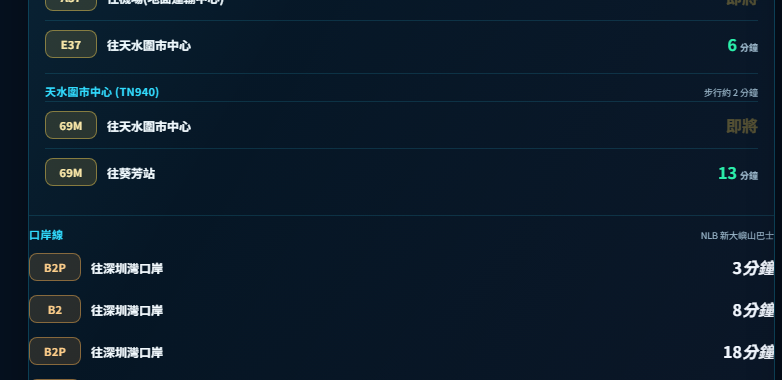
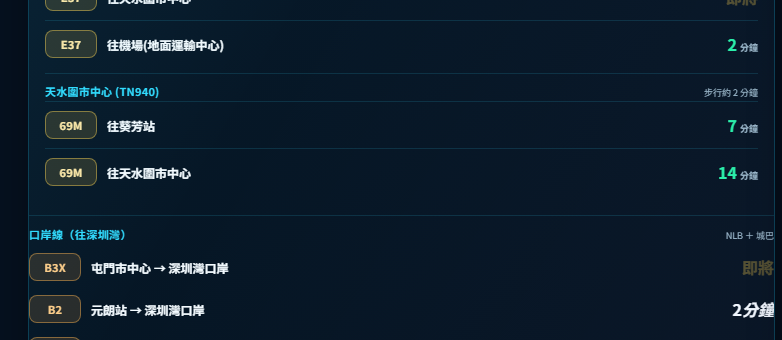
feat(port): 加入城巴 B3/B3A/B3X/B3M，口岸線統一為 NLB＋城巴

diff --git a/src/api/port.ts b/src/api/port.ts
@@ -1,0 +1,86 @@
+import type { PortArrival } from './types';
+import { array, isRecord, record } from '../lib/validate';
+import { getJson, type RequestOptions } from './client';
+
+/**
+ * 口岸線：往深圳灣口岸的巴士。
+ *
+ * - 新大嶼山巴士（NLB）B2／B2P：rt.data.gov.hk/v2/transport/nlb/stop.php?action=estimatedArrivals
+ * - 城巴（CTB）B3 系：rt.data.gov.hk/v2/transport/citybus/eta/CTB/{stop}/{route}
+ *
+ * 城巴回應同時包含兩個方向，必須按 dir 過濾（'O' = outbound，即離開屯門）。
+ * 站號全部於 2026-10-27 以官方 API 核實。
+ */
+
+type PortLine =
+  | { readonly operator: 'NLB'; readonly route: string; readonly from: string; readonly dest: string; readonly routeId: string; readonly stopId: string }
+  | { readonly operator: 'CTB'; readonly route: string; readonly from: string; readonly dest: string; readonly stopId: string };
+
+export const PORT_LINES: readonly PortLine[] = [
+  { operator: 'NLB', route: 'B2', from: '元朗站', dest: '深圳灣口岸', routeId: '37', stopId: '161' },
+  { operator: 'NLB', route: 'B2P', from: '天水圍天慈邨', dest: '深圳灣口岸', routeId: '33', stopId: '203' },
+  { operator: 'CTB', route: 'B3', from: '屯門碼頭', dest: '深圳灣口岸', stopId: '003194' },
+  { operator: 'CTB', route: 'B3A', from: '山景邨', dest: '深圳灣口岸', stopId: '003201' },
+  { operator: 'CTB', route: 'B3X', from: '屯門市中心', dest: '深圳灣口岸', stopId: '003198' },
+  { operator: 'CTB', route: 'B3M', from: '屯門站', dest: '深圳灣口岸', stopId: '003361' },
+];
+
+function minutesFrom(iso: unknown, now: Date): number | null {
+  if (typeof iso !== 'string' || iso.length === 0) return null;
+  const at = new Date(iso);
+  if (Number.isNaN(at.getTime())) return null;
+  const minutes = Math.round((at.getTime() - now.getTime()) / 60_000);
+  return minutes < 0 || minutes > 180 ? null : minutes;
+}
+
+function parseNlb(payload: unknown, line: PortLine, now: Date): PortArrival[] {
+  const root = record(payload, 'NLB 回應');
+  const list = array(root['arrivals'], 'NLB.arrivals');
+  const out: PortArrival[] = [];
+  for (const entry of list) {
+    if (!isRecord(entry)) continue;
+    const time = entry['estimatedArrivalTime'];
+    const at = typeof time === 'string' ? new Date(`${time.replace(' ', 'T')}+08:00`) : null;
+    const minutes = at && !Number.isNaN(at.getTime()) ? Math.round((at.getTime() - now.getTime()) / 60_000) : null;
+    if (minutes === null || minutes < 0 || minutes > 180) continue;
+    out.push({ operator: line.operator, route: line.route, from: line.from, dest: line.dest, minutes });
+    if (out.length >= 1) break;
+  }
+  return out;
+}
+
+function parseCtb(payload: unknown, line: PortLine, now: Date): PortArrival[] {
+  const root = record(payload, '城巴回應');
+  const list = array(root['arrivals'], 'CTB.arrivals');
+  const out: PortArrival[] = [];
+  for (const entry of list) {
+    if (!isRecord(entry)) continue;
+    // 只取離屯門方向（dir 'O'），否則會混入返屯門嘅班次。
+    if (entry['dir'] !== 'O') continue;
+    const minutes = minutesFrom(entry['eta'], now);
+    if (minutes === null) continue;
+    out.push({ operator: line.operator, route: line.route, from: line.from, dest: line.dest, minutes });
+    if (out.length >= 1) break;
+  }
+  return out;
+}
+
+export async function fetchPortArrivals(now: Date, options: RequestOptions): Promise<readonly PortArrival[]> {
+  const results = await Promise.allSettled(
+    PORT_LINES.map((line) => {
+      if (line.operator === 'NLB') {
+        return getJson('/api/nlb', { route: line.routeId, stop: line.stopId }, (raw) => parseNlb(raw, line, now), options);
+      }
+      return getJson('/api/ctb', { route: line.route, stop: line.stopId }, (raw) => parseCtb(raw, line, now), options);
+    }),
+  );
+
+  const rows: PortArrival[] = [];
+  let failures = 0;
+  for (const result of results) {
+    if (result.status === 'fulfilled') rows.push(...result.value);
+    else failures += 1;
+  }
+  if (rows.length === 0 && failures === PORT_LINES.length) throw new Error('口岸線資料暫時取不到');
+  return rows.sort((a, b) => a.minutes - b.minutes);
+}

diff --git a/src/ui/bus.ts b/src/ui/bus.ts
@@ -1,4 +1,4 @@
-import type { AppState, NlbArrival } from '../api/types';
+import type { AppState, PortArrival } from '../api/types';
 import { loadBusStops } from '../api/bus';
 import { groupByStop } from '../core/bus';
 import { busStopsFor, stationName } from '../core/places';
@@ -75,13 +75,13 @@ export function initBusPicker(handlers: BusHandlers): void {
   on(select, 'change', () => handlers.selectBusStop(select.value));
 }
 
-function nlbRow(row: NlbArrival): HTMLElement {
+function portRow(row: PortArrival): HTMLElement {
   const eta = etaText(row.minutes);
   return h(
     'div',
     { class: 'nlb-row' },
     h('span', { class: 'bus-chip nlb-chip', text: row.route }),
-    h('div', { class: 'bus-info' }, h('b', { text: `往${row.dest}` })),
+    h('div', { class: 'bus-info' }, h('b', { text: `${row.from} → ${row.dest}` })),
     h(
       'strong',
       { class: eta.due ? 'due' : undefined },
@@ -92,25 +92,25 @@ function nlbRow(row: NlbArrival): HTMLElement {
 }
 
 /** 口岸線（B2／B2P）——與九巴分開呈現，因為營運商同資料源都唔同。 */
-export function renderNlb(state: AppState): void {
+export function renderPort(state: AppState): void {
   const block = document.getElementById('nlb-block');
   const list = byId('nlb-list');
   if (!block) return;
 
-  if (!state.nlb.data) {
-    if (state.nlb.state === 'error') {
-      replace(list, h('div', { class: 'state-empty', text: state.nlb.error ?? '口岸線資料暫時取不到' }));
+  if (!state.port.data) {
+    if (state.port.state === 'error') {
+      replace(list, h('div', { class: 'state-empty', text: state.port.error ?? '口岸線資料暫時取不到' }));
     } else {
       replace(list, h('span', { class: 'skeleton', aria: { hidden: 'true' } }));
     }
     return;
   }
 
-  if (state.nlb.data.length === 0) {
+  if (state.port.data.length === 0) {
     replace(list, h('div', { class: 'state-empty', text: '口岸線暫無即將開出班次' }));
     return;
   }
-  replace(list, ...state.nlb.data.map(nlbRow));
+  replace(list, ...state.port.data.map(portRow));
 }
 export function renderBus(state: AppState, now: Date): void {
   setText(byId('bus-badge'), badgeText(state.bus, now));

diff --git a/worker/src/index.js b/worker/src/index.js
@@ -379,6 +379,31 @@ async function handleNlb(url, request, env, ctx) {
     return json({ ok: true, arrivals: data.estimatedArrivals ?? [] }, 200, request, env, TTL.bus);
   });
 }
+/**
+ * 城巴（CTB）到站：屯門／深圳灣口岸的 B3 系列。
+ * 官方端點：rt.data.gov.hk/v2/transport/citybus/eta/CTB/{stop}/{route}
+ */
+async function handleCtb(url, request, env, ctx) {
+  const route = (url.searchParams.get('route') || '').toUpperCase().replace(/[^A-Z0-9]/g, '');
+  const stop = (url.searchParams.get('stop') || '').replace(/\D/g, '');
+  if (!route || !stop) {
+    return json({ ok: false, error: '需要 route 及 stop 參數' }, 400, request, env);
+  }
+  const target = `https://rt.data.gov.hk/v2/transport/citybus/eta/CTB/${stop}/${route}`;
+  const cacheKey = `${url.origin}/api/ctb?route=${route}&stop=${stop}`;
+  return edgeCached(request, cacheKey, TTL.bus, ctx, async () => {
+    const upstream = await fetch(target, { headers: { 'User-Agent': 'hk-traffic-super-screen/2.5' } });
+    if (!upstream.ok) return json({ ok: false, error: `CTB ${upstream.status}` }, 502, request, env);
+    const body = await upstream.text();
+    let data;
+    try {
+      data = JSON.parse(body);
+    } catch {
+      return json({ ok: false, error: '城巴回應格式錯誤' }, 502, request, env);
+    }
+    return json({ ok: true, arrivals: data.data ?? [] }, 200, request, env, TTL.bus);
+  });
+}
 /** 極簡 XML 取值（Worker 冇 DOMParser）。 */
 function pickTag(block, tag) {
   const match = new RegExp(`<${tag}>([\\s\\S]*?)</${tag}>`).exec(block);
@@ -503,6 +528,8 @@ export default {
           return json({ ok: true, now: new Date().toISOString() }, 200, request, env);
         case '/api/rail':
           return await handleRail(url, request, env, ctx);
+        case '/api/ctb':
+          return await handleCtb(url, request, env, ctx);
         case '/api/nlb':
           return await handleNlb(url, request, env, ctx);        case '/api/bus':
           return await handleBus(url, request, env, ctx);

diff --git a/src/main.ts b/src/main.ts
@@ -3,7 +3,7 @@ import './styles/extra.css';
 
 import { errorMessage } from './api/client';
 import { fetchBusArrivals, loadBusStops, type BusStopRef } from './api/bus';
-import { fetchNlbArrivals } from './api/nlb';
+import { fetchPortArrivals } from './api/port';
 import { fetchLrtStations } from './api/lrt';
 import { PartialFailureError, TML_CODES, fetchTmlBatch } from './api/mtr';
 import { fetchTrafficNews } from './api/traffic';
@@ -86,7 +86,7 @@ const store = createStore<AppState>({
   tml: idleSlice(),
   lrt: idleSlice(),
   bus: idleSlice(),
-  nlb: idleSlice(),
+  port: idleSlice(),
   roads: idleSlice(),
   weather: idleSlice(),
   traffic: idleSlice(),
@@ -403,16 +403,16 @@ function startJobs(sched: Scheduler): void {
   });
 
   sched.add({
-    name: 'nlb',
+    name: 'port',
     everyMs: 60_000,
     async run(signal) {
-      store.update({ nlb: beginLoad(store.get().nlb) });
+      store.update({ port: beginLoad(store.get().port) });
       const started = performance.now();
       try {
-        const rows = await fetchNlbArrivals(new Date(), { signal });
-        store.update({ nlb: succeed(rows, performance.now() - started) });
+        const rows = await fetchPortArrivals(new Date(), { signal });
+        store.update({ port: succeed(rows, performance.now() - started) });
       } catch (error) {
-        store.update({ nlb: failed(store.get().nlb, errorMessage(error)) });
+        store.update({ port: failed(store.get().port, errorMessage(error)) });
       }
     },
   });

diff --git a/index.html b/index.html
@@ -107,10 +107,10 @@
       <p class="source-note bus-stops" id="bus-stops">—</p>
       <div id="bus-list" class="bus-list"></div>
       <div class="nlb-block" id="nlb-block">
-        <div class="nlb-head"><span>口岸線</span><small>NLB 新大嶼山巴士</small></div>
+        <div class="nlb-head"><span>口岸線（往深圳灣）</span><small>NLB ＋ 城巴</small></div>
         <div id="nlb-list" class="nlb-list"></div>
       </div>
-      <p class="source-note">九巴／龍運（官方 feed，含機場 A／E 線）＋ 新大嶼山巴士口岸線 B2／B2P；城巴、港鐵巴士未有公開實時 API。</p>
+      <p class="source-note">九巴／龍運（含機場 A／E 線）＋ 口岸線：B2／B2P（NLB）、B3／B3A／B3X／B3M（城巴）；港鐵巴士未有公開實時 API。</p>
     </article>
     <article id="sources" class="rail-status panel">
       <div class="panel-head"><div><span class="eyebrow">DATA HEALTH</span><h2>資料來源狀態</h2></div></div>

diff --git a/src/ui/app.ts b/src/ui/app.ts
@@ -1,6 +1,6 @@
 import type { AppState } from '../api/types';
 import { renderAdvice } from './advice';
-import { renderBus, renderNlb } from './bus';
+import { renderBus, renderPort } from './bus';
 import { renderFavorites, type FavoritesHandlers } from './misc';
 import { renderLocation } from './location';
 import { renderMessages, renderRelevant, renderRoads } from './roads';
@@ -24,7 +24,7 @@ export function renderApp(state: AppState, handlers: AppHandlers): void {
   renderAdvice(state);
   renderRail(state, now, handlers.rail);
   renderBus(state, now);
-  renderNlb(state);
+  renderPort(state);
   renderWeather(state.weather, now);
   renderRoads(state.traffic, state.roads, now);
   renderMessages(state.traffic, state.ui.filter);

diff --git a/src/api/types.ts b/src/api/types.ts
@@ -124,8 +124,10 @@ export interface UiState {
   readonly busStop: string;
 }
 
-export interface NlbArrival {
+export interface PortArrival {
+  readonly operator: 'NLB' | 'CTB';
   readonly route: string;
+  readonly from: string;
   readonly dest: string;
   readonly minutes: number;
 }
@@ -135,7 +137,7 @@ export interface AppState {
   readonly tml: Slice<Readonly<Partial<Record<string, StationArrivals>>>>;
   readonly lrt: Slice<readonly LrtRow[]>;
   readonly bus: Slice<readonly BusArrival[]>;
-  readonly nlb: Slice<readonly NlbArrival[]>;
+  readonly port: Slice<readonly PortArrival[]>;
   readonly roads: Slice<RoadSnapshot>;
   readonly weather: Slice<WeatherReading>;
   readonly traffic: Slice<readonly TrafficItem[]>;
